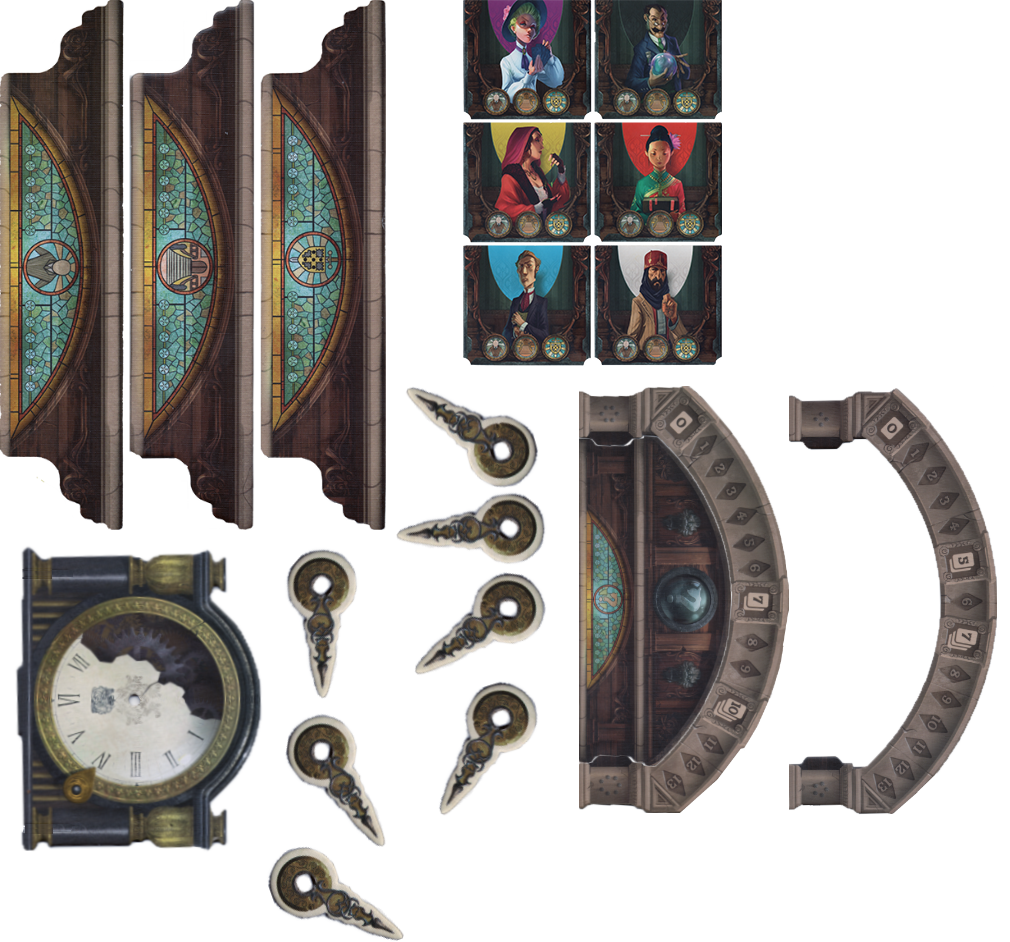
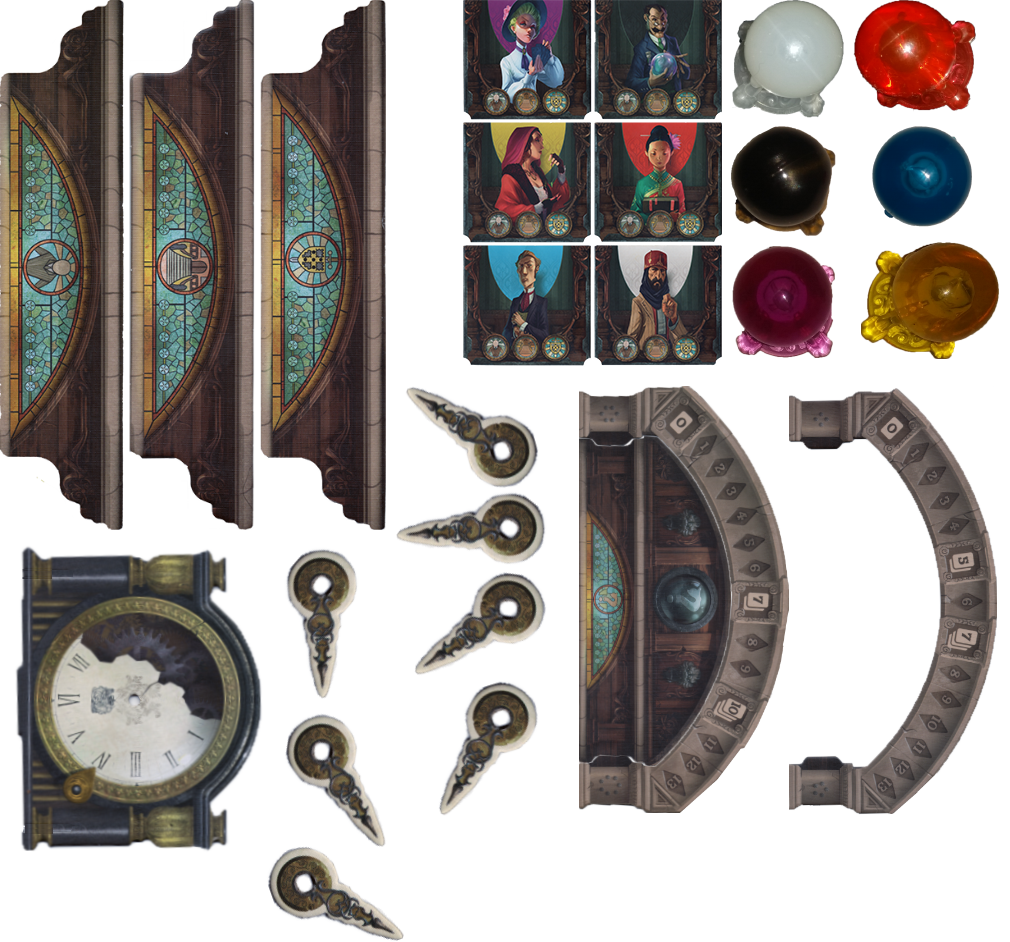
29/11

Changed region(s): [[0.7059, 0.0, 1.0, 0.4002]]

diff --git a/public/js/client.js b/public/js/client.js
@@ -78,15 +78,10 @@
       numPlayer = data.numPlayer;
       perso = data.joue;
       nbPlayer = data.nbPlayer;
-      tour = data.tour || 1;
 
       //enregistre les joueurs
       if ( data.playerListe ) {
-        for (var i = 1; i <= nbPlayer; i++) {
-          if (data.playerListe[i]) {
-            playerListe[i] = data.playerListe[i].joue;
-          }
-        }
+        playerListe = data.playerListe;
       }
 
       socket.emit('room', room);
@@ -112,6 +107,7 @@
 
       //vérifie si la partie à déjà commencé
       if (data.start) {
+        tour = data.tour;
         corbeau = data.corbeau;
         debutPartie();
       }
@@ -349,8 +345,8 @@
 
       //ajout des class
       heure.classList.add('image', 'heure', 'couper');
-      aiguilleHeure.classList.add('image', 'couper', 'ah1');
-      aiguille.classList.add('image', 'a1');
+      aiguilleHeure.classList.add('image', 'couper', heureTour[tour].div);
+      aiguille.classList.add('image', heureTour[tour].img);
       position.classList.add('position');
       horloge.classList.add('horloge');
 
@@ -436,7 +432,7 @@
         div.classList.remove('avatar');
         //affichage des voyant
         for (var i = 1; i <= nbPlayer; i++) {
-          if (playerListe[i] != 'fantom') {
+          if (playerListe[i].joue != 'fantom') {
             avatarVoyant(div, i, (playerListe[i].joue - 1));
           }
         }
@@ -491,6 +487,15 @@
         positionVoyant.appendChild(objet);
         positionVoyant.appendChild(objet1);
 
+        progression[1] = personnage;
+        progression[2] = personnage1;
+        progression[3] = personnage2;
+        progression[4] = lieux;
+        progression[5] = lieux1;
+        progression[6] = lieux2;
+        progression[7] = objet;
+        progression[8] = objet1;
+
         //parcour la liste des cartes pour les afficher
         for (var numCartes = 0; numCartes < cartes.personnages.length; numCartes++) {
           if (numCartes < 5) {
@@ -522,10 +527,12 @@
           }
           point.appendChild(pointInt);
           //parcour la liste des joueurs pour afficher leur points
-          for (var i = 1; i <= nbPlayer; i++) {
-            if (playerListe[i] != 'fantom') {
-              var carreJoueur = document.createElement('div');
-              var pointJoueur = document.createElement('image');
+          for (var numJoueur = 1; numJoueur <= nbPlayer; numJoueur++) {
+            if (playerListe[numJoueur].joue != 'fantom') {
+              createPoint(numJoueur, point);
+              playerListe[numJoueur].intuition = document.createElement('div');
+              playerListe[numJoueur].intuition.classList.add(jetonPoint[playerListe[numJoueur].joue].couleur);
+              progression[playerListe[numJoueur].position].appendChild(playerListe[numJoueur].intuition);
             }
           }
         }
@@ -571,7 +578,7 @@
       perso.classList.add('couper', 'carte');
       lieux.classList.add('couper', 'carte');
       objet.classList.add('couper', 'carte');
-      image.classList.add('image', joueur[playerListe[numPlayer] -1]);
+      image.classList.add('image', joueur[playerListe[numPlayer].joue - 1]);
       jeton.classList.add('div', 'jetonFantome', 'couper');
       voyant.classList.add('div', 'voyant');
 
@@ -712,7 +719,7 @@
 
       //ajout d'id
       jeton.id = numPlayer;
-      image.id = joueurVoyant[playerListe[numPlayer] -1];
+      image.id = joueurVoyant[playerListe[numPlayer].joue -1];
 
       //ajout dans le document
       jeton.appendChild(image);
@@ -767,6 +774,20 @@
       xMousePosition = e.clientX + window.pageXOffset;
       yMousePosition = e.clientY + window.pageYOffset;
     });
+
+    //affiche les point des joueurs
+    function createPoint (numJoueur, point) {
+      var carreJoueur = document.createElement('div');
+      var pointJoueur = document.createElement('div');
+      carreJoueur.classList.add('image', 'pointCouleurDiv');
+      pointJoueur.classList.add('image', 'pointImage');
+      carreJoueur.classList.add('nbPoint' + playerListe[numJoueur].nbPoint);
+      pointJoueur.id = 'pointJoueur' + jetonPoint[playerListe[numJoueur].joue].numPlayer;
+      carreJoueur.appendChild(pointJoueur);
+      point.appendChild(carreJoueur);
+
+      playerListe[numJoueur].carre = carreJoueur;
+    };
 
 
     function OK()
@@ -930,8 +951,11 @@
 
   var joueur = ['joueurQuatre', 'joueurTrois', 'joueurDeux', 'joueurSix', 'joueurCinq', 'joueurUn'];
   var joueurVoyant = ['joueurNoir', 'joueurBleu', 'joueurJaune', 'joueurBlanc', 'joueurRouge', 'joueurMauve'];
+  var heureTour = [,{div: 'ah1', img: 'a1'},{div: 'ah2', img: 'a2'},{div: 'ah3', img: 'a3'},{div: 'ah4', img: 'a4'},{div: 'ah5', img: 'a5'},{div: 'ah6', img: 'a6'},{div: 'ah7', img: 'a7'}];
+  var jetonPoint = [,{couleur : 'noir', numPlayer : 'Quatre'}, {couleur : 'bleu', numPlayer : 'Trois'}, {couleur : 'jaune', numPlayer : 'Deux'}, {couleur : 'blanc', numPlayer : 'Six'}, {couleur : 'rouge', numPlayer : 'Cinq'}, {couleur : 'mauve', numPlayer : 'Un'}];
   var choisCarte = {vision:[],listesJoueur:[]};
   var corbeau;
   var corbeauUse = true;
+  var progression = [];
 
 })(window, io);

diff --git a/public/css/master.css b/public/css/master.css
@@ -95,6 +95,66 @@ table {
   top: 121px;
   left: 79px;
 }
+.a2{
+  left: -286px;
+  top: -714px;
+}
+.ah2{
+  width: 99px;
+  height: 132px;
+  top: 121px;
+  left: 79px;
+}
+.a3{
+  left: -287px;
+  top: -550px;
+}
+.ah3{
+  width: 70px;
+  height: 148px;
+  top: 121px;
+  left: 79px;
+}
+.a4{
+  left: -440px;
+  top: -682px;
+}
+.ah4{
+  width: 98px;
+  height: 133px;
+  top: 121px;
+  left: 53px;
+}
+.a5{
+  left: -415px;
+  top: -573px;
+}
+.ah5{
+  width: 130px;
+  height: 102px;
+  top: 121px;
+  left: 20px;
+}
+.a6{
+  left: -397px;
+  top: -494px;
+}
+.ah6{
+  width: 148px;
+  height: 71px;
+  top: 122px;
+  left: 1px;
+}
+.a7{
+  left: -406px;
+  top: -387px;
+}
+.ah7{
+  width: 131px;
+  height: 100px;
+  top: 92px;
+  left: 19px;
+}
 #jeux{
   width: 2328px;
   height: 100%;
@@ -182,38 +242,106 @@ table {
 .pointImage{
   left: 490px;
   height: 40px;
-  width: 42px;
+  width: 44px;
 }
-#carreJoueurUn{
+.nbPoint0{
   transform: rotate(39deg);
 }
-#carreJoueurDeux{
-  transform: rotate(39deg);
+.nbPoint1{
+  transform: rotate(46deg);
+}
+.nbPoint2{
+  transform: rotate(52deg);
+}
+.nbPoint3{
+  transform: rotate(58deg);
+}
+.nbPoint4{
+  transform: rotate(64deg);
+}
+.nbPoint5{
+  transform: rotate(71deg);
+}
+.nbPoint6{
+  transform: rotate(77deg);
+}
+.nbPoint7{
+  transform: rotate(85deg);
+}
+.nbPoint8{
+  transform: rotate(95deg);
+}
+.nbPoint9{
+  transform: rotate(102deg);
+}
+.nbPoint10{
+  transform: rotate(112deg);
+}
+.nbPoint11{
+  transform: rotate(121deg);
+}
+.nbPoint12{
+  transform: rotate(127deg);
+}
+.nbPoint13{
+  transform: rotate(134deg);
 }
 #pointJoueurUn{
   top: 200px;
+  background-image: url('../image/pion/mauve.jpg');
 }
 #pointJoueurDeux{
   top: 160px;
-}
-#carreJoueurTrois{
-  transform: rotate(39deg);
-}
-#carreJoueurQuatre{
-  transform: rotate(39deg);
+  background-image: url('../image/pion/jaune.jpg');
 }
 #pointJoueurTrois{
   top: 120px;
+  background-image: url('../image/pion/bleu.jpg');
 }
 #pointJoueurQuatre{
   top: 80px;
-}
-#carreJoueurCinq{
-  transform: rotate(39deg);
-}
-#carreJoueurSix{
-  transform: rotate(39deg);
+  background-image: url('../image/pion/noir.jpg');
 }
 #pointJoueurCinq{
   top: 40px;
+  background-image: url('../image/pion/rouge.jpg');
+}
+#pointJoueurSix{
+  background-image: url('../image/pion/blanc.jpg');
+}
+.blanc{
+  background: url('../image/plateau.png') no-repeat -732px 0;
+  z-index: 1;
+	width: 112px;
+	height: 118px;
+}
+.rouge{
+  background: url('../image/plateau.png') no-repeat -853px 0;
+  z-index: 1;
+	width: 123px;
+	height: 112px;
+}
+.noir{
+  background: url('../image/plateau.png') no-repeat -731px -126px;
+  z-index: 1;
+	width: 105px;
+	height: 110px;
+}
+.bleu{
+  background: url('../image/plateau.png') no-repeat -872px -126px;
+  z-index: 1;
+	width: 100px;
+	height: 101px;
+}
+.mauve{
+  background: url('../image/plateau.png') no-repeat -732px -246px;
+  z-index: 1;
+	width: 104px;
+	height: 112px;
+}
+.jaune{
+  background: url('../image/plateau.png') no-repeat -861px -242px;
+  z-index: 1;
+	width: 138px;
+	height: 117px;
 }

diff --git a/server.js b/server.js
@@ -107,7 +107,7 @@ socketIOWebSocketServer.on('connection', (socket) => {
           //partie commencé
           if (result.start) {
             start = true;
-            tour = result.tour;
+            tour = rooms[room].tour;
           }
           // ajout dans la room
           socket.join(room);
@@ -223,12 +223,12 @@ socketIOWebSocketServer.on('connection', (socket) => {
           numPlayer: numPlayer,
           joue: joue,
           start: start,
-          playerListe: result.playerListe,
+          playerListe: rooms[room].playerListe,
           nbPlayer: result.nbPlayer,
           cartes: cartes,
           visionPlayer : visionPlayer,
-          tour : tour || null,
-          corbeau : corbeau || null
+          tour : tour,
+          corbeau : corbeau
         });
         // Let the existing players in room know there is a new player
         // TODO -- Add room number to this / Player class
